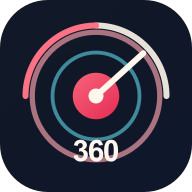
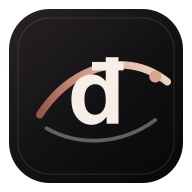
feat: refresh 360dep brand identity

diff --git a/components/brand-logo.tsx b/components/brand-logo.tsx
@@ -9,23 +9,23 @@ type BrandLogoProps = {
 
 export function BrandLogo({ href = "/", variant = "light", className = "", markClassName = "" }: BrandLogoProps) {
   const textClass = variant === "dark" ? "text-white" : "text-slate-950 dark:text-white"
-  const subTextClass = variant === "dark" ? "text-slate-400" : "text-slate-500 dark:text-slate-400"
+  const subTextClass = variant === "dark" ? "text-stone-400" : "text-stone-500 dark:text-stone-400"
 
   return (
-    <Link href={href} className={`group inline-flex items-center gap-3 ${className}`} aria-label="360 độ đẹp">
+    <Link href={href} className={`group inline-flex items-center gap-3 ${className}`} aria-label="360dep.vn">
       <span
-        className={`relative flex h-11 w-11 shrink-0 items-center justify-center overflow-hidden rounded-2xl bg-slate-950 text-white shadow-sm ring-1 ring-slate-900/10 dark:bg-white dark:text-slate-950 ${markClassName}`}
+        className={`relative flex h-11 w-11 shrink-0 items-center justify-center overflow-hidden rounded-xl bg-stone-950 text-stone-50 shadow-sm ring-1 ring-stone-950/15 transition-transform duration-300 group-hover:scale-[1.03] dark:ring-white/10 ${markClassName}`}
       >
-        <span className="absolute inset-1 rounded-[14px] border border-rose-300/45" />
-        <span className="absolute h-7 w-7 rounded-full border border-cyan-300/45" />
-        <span className="absolute h-3 w-3 rounded-full bg-rose-500" />
-        <span className="relative font-display text-[11px] font-black leading-none tracking-tight">360</span>
+        <span className="absolute inset-[5px] rounded-lg border border-stone-50/10" />
+        <span className="absolute left-[7px] top-[24px] h-4 w-8 -rotate-[18deg] rounded-[999px] border-t-2 border-[#c88f7a]" />
+        <span className="absolute right-[8px] top-[10px] h-1.5 w-1.5 rounded-full bg-[#d8a48f]" />
+        <span className="relative -mt-0.5 font-display text-[31px] font-black leading-none tracking-normal text-stone-50">đ</span>
       </span>
       <span className="min-w-0 leading-none">
-        <span className={`block font-display text-2xl font-black tracking-tight ${textClass}`}>
-          360 độ <span className="text-rose-600 dark:text-rose-400">đẹp</span>
+        <span className={`block font-display text-2xl font-black tracking-normal ${textClass}`}>
+          360<span className="text-[#a94f43] dark:text-[#d8a48f]">dep</span><span className="text-stone-500 dark:text-stone-400">.vn</span>
         </span>
-        <span className={`mt-1 hidden text-[10px] font-bold uppercase tracking-[0.22em] sm:block ${subTextClass}`}>
+        <span className={`mt-1 hidden text-[10px] font-bold uppercase tracking-[0.24em] sm:block ${subTextClass}`}>
           Beauty radar
         </span>
       </span>

diff --git a/app/layout.tsx b/app/layout.tsx
@@ -21,13 +21,13 @@ const spaceGrotesk = Space_Grotesk({
 
 export const metadata: Metadata = {
   metadataBase: new URL(process.env.NEXT_PUBLIC_SITE_URL || 'https://360dep.vn'),
-  applicationName: '360 độ đẹp',
+  applicationName: '360dep.vn',
   title: {
-    default: '360 độ đẹp | Catalogue, review mỹ phẩm và beauty radar',
-    template: '%s | 360 độ đẹp',
+    default: '360dep.vn | Catalogue, review mỹ phẩm và beauty radar',
+    template: '%s | 360dep.vn',
   },
   description: 'Catalogue, review mỹ phẩm và kiến thức làm đẹp có kiểm chứng cho người dùng Việt Nam.',
-  keywords: ['360 độ đẹp', '360dep', 'review mỹ phẩm', 'catalogue làm đẹp', 'beauty radar', 'skincare Việt Nam'],
+  keywords: ['360dep.vn', '360dep', 'review mỹ phẩm', 'catalogue làm đẹp', 'beauty radar', 'skincare Việt Nam'],
   alternates: {
     canonical: '/',
   },
@@ -44,29 +44,29 @@ export const metadata: Metadata = {
     shortcut: ['/brand/favicon.ico'],
   },
   appleWebApp: {
-    title: '360 độ đẹp',
+    title: '360dep.vn',
     capable: true,
     statusBarStyle: 'default',
   },
   openGraph: {
     type: 'website',
     locale: 'vi_VN',
-    siteName: '360 độ đẹp',
+    siteName: '360dep.vn',
     url: '/',
-    title: '360 độ đẹp | Catalogue, review mỹ phẩm và beauty radar',
+    title: '360dep.vn | Catalogue, review mỹ phẩm và beauty radar',
     description: 'Catalogue, review mỹ phẩm và kiến thức làm đẹp có kiểm chứng cho người dùng Việt Nam.',
     images: [
       {
         url: '/brand/social-share.jpg',
         width: 1200,
         height: 630,
-        alt: '360 độ đẹp - Beauty Radar',
+        alt: '360dep.vn - Beauty Radar',
       },
     ],
   },
   twitter: {
     card: 'summary_large_image',
-    title: '360 độ đẹp | Catalogue, review mỹ phẩm và beauty radar',
+    title: '360dep.vn | Catalogue, review mỹ phẩm và beauty radar',
     description: 'Catalogue, review mỹ phẩm và kiến thức làm đẹp có kiểm chứng cho người dùng Việt Nam.',
     images: ['/brand/social-share.jpg'],
   },

diff --git a/app/catalogue/page.tsx b/app/catalogue/page.tsx
@@ -8,22 +8,22 @@ import { getCatalogueGuide } from "@/lib/catalogue-guide"
 
 export const metadata = {
   title: "Catalogue nhu cầu làm đẹp",
-  description: "Bản đồ catalogue 360 độ đẹp theo nhu cầu: da mặt, trị mụn, sáng da, chống nắng, tóc, bodycare, makeup, nam giới, clinic và ingredient radar.",
+  description: "Bản đồ catalogue 360dep.vn theo nhu cầu: da mặt, trị mụn, sáng da, chống nắng, tóc, bodycare, makeup, nam giới, clinic và ingredient radar.",
   openGraph: {
-    title: "Catalogue nhu cầu làm đẹp | 360 độ đẹp",
+    title: "Catalogue nhu cầu làm đẹp | 360dep.vn",
     description: "Bản đồ catalogue theo nhu cầu: da mặt, trị mụn, sáng da, chống nắng, tóc, bodycare, makeup, nam giới, clinic và ingredient radar.",
     images: [
       {
         url: "/brand/social-share.jpg",
         width: 1200,
         height: 630,
-        alt: "360 độ đẹp - catalogue nhu cầu làm đẹp",
+        alt: "360dep.vn - catalogue nhu cầu làm đẹp",
       },
     ],
   },
   twitter: {
     card: "summary_large_image",
-    title: "Catalogue nhu cầu làm đẹp | 360 độ đẹp",
+    title: "Catalogue nhu cầu làm đẹp | 360dep.vn",
     description: "Bản đồ catalogue theo nhu cầu làm đẹp, review mỹ phẩm và kiến thức có kiểm chứng.",
     images: ["/brand/social-share.jpg"],
   },
@@ -40,7 +40,7 @@ export default function CataloguePage() {
               Catalogue theo nhu cầu
             </div>
             <h1 className="font-display text-3xl font-black tracking-tight text-slate-900 dark:text-slate-50 md:text-5xl">
-              360 độ đẹp ưu tiên nhu cầu làm đẹp trước, giới tính chỉ là filter.
+              360dep.vn ưu tiên nhu cầu làm đẹp trước, giới tính chỉ là filter.
             </h1>
             <p className="mt-5 max-w-3xl text-base leading-relaxed text-slate-600 dark:text-slate-400 md:text-lg">
               Người dùng thường tìm theo vấn đề thật: trị mụn, kem chống nắng da dầu,

diff --git a/components/layout/footer.tsx b/components/layout/footer.tsx
@@ -47,7 +47,7 @@ export function Footer() {
         <div className="space-y-6">
           <BrandLogo variant="dark" />
           <p className="text-sm text-slate-400 leading-relaxed max-w-xs">
-            360 độ đẹp - nền tảng catalogue, review mỹ phẩm và kiến thức làm đẹp có kiểm chứng cho người dùng Việt Nam.
+            360dep.vn - nền tảng catalogue, review mỹ phẩm và kiến thức làm đẹp có kiểm chứng cho người dùng Việt Nam.
           </p>
           <div className="flex gap-4">
             <Link href="#" className="text-slate-400 hover:text-white transition-colors">
@@ -154,7 +154,7 @@ export function Footer() {
         </div>
       </div>
       <div className="container mx-auto px-4 md:px-6 mt-16 pt-8 border-t border-slate-800 flex flex-col md:flex-row justify-between items-center gap-4 text-xs font-medium uppercase tracking-wider text-slate-500">
-        <div>&copy; {new Date().getFullYear()} 360 độ đẹp. All rights reserved.</div>
+        <div>&copy; {new Date().getFullYear()} 360dep.vn. All rights reserved.</div>
         <div className="flex gap-6">
           <Link href="#" className="hover:text-white transition-colors">Privacy</Link>
           <Link href="#" className="hover:text-white transition-colors">Terms</Link>

diff --git a/app/catalogue/[slug]/page.tsx b/app/catalogue/[slug]/page.tsx
@@ -28,26 +28,26 @@ export async function generateMetadata({ params }: { params: Promise<{ slug: str
   const { slug } = await params
   const section = getCatalogueSection(slug)
 
-  if (!section) return { title: "Catalogue không tồn tại | 360 độ đẹp" }
+  if (!section) return { title: "Catalogue không tồn tại | 360dep.vn" }
 
   return {
     title: `${section.title} | Catalogue làm đẹp`,
     description: section.description,
     openGraph: {
-      title: `${section.title} | 360 độ đẹp`,
+      title: `${section.title} | 360dep.vn`,
       description: section.description,
       images: [
         {
           url: "/brand/social-share.jpg",
           width: 1200,
           height: 630,
-          alt: `${section.title} trên 360 độ đẹp`,
+          alt: `${section.title} trên 360dep.vn`,
         },
       ],
     },
     twitter: {
       card: "summary_large_image",
-      title: `${section.title} | 360 độ đẹp`,
+      title: `${section.title} | 360dep.vn`,
       description: section.description,
       images: ["/brand/social-share.jpg"],
     },

diff --git a/app/koc-tracker/[id]/page.tsx b/app/koc-tracker/[id]/page.tsx
@@ -19,16 +19,16 @@ export async function generateMetadata({ params }: { params: Promise<{ id: strin
   const kol = await getKol(id)
 
   if (!kol) {
-    return { title: 'KOL/KOC không tồn tại | 360 độ đẹp' }
+    return { title: 'KOL/KOC không tồn tại | 360dep.vn' }
   }
 
-  const description = `Theo dõi ${kol.name} trên ${kol.platform}. ${kol.followers} followers. Xem đánh giá sản phẩm làm đẹp từ ${kol.name} tại 360 độ đẹp.`
+  const description = `Theo dõi ${kol.name} trên ${kol.platform}. ${kol.followers} followers. Xem đánh giá sản phẩm làm đẹp từ ${kol.name} tại 360dep.vn.`
 
   return {
-    title: `${kol.name} - KOL/KOC Tracker | 360 độ đẹp`,
+    title: `${kol.name} - KOL/KOC Tracker | 360dep.vn`,
     description,
     openGraph: {
-      title: `${kol.name} - KOL/KOC Tracker | 360 độ đẹp`,
+      title: `${kol.name} - KOL/KOC Tracker | 360dep.vn`,
       description,
     },
   }

diff --git a/app/products/[id]/page.tsx b/app/products/[id]/page.tsx
@@ -23,7 +23,7 @@ export async function generateMetadata({ params }: { params: Promise<{ id: strin
   const product = await getProduct(id)
 
   if (!product) {
-    return { title: 'Sản phẩm không tồn tại | 360 độ đẹp' }
+    return { title: 'Sản phẩm không tồn tại | 360dep.vn' }
   }
 
   const description = product.description?.length > 160
@@ -31,10 +31,10 @@ export async function generateMetadata({ params }: { params: Promise<{ id: strin
     : product.description
 
   return {
-    title: `${product.name} - ${product.brand} | 360 độ đẹp`,
+    title: `${product.name} - ${product.brand} | 360dep.vn`,
     description,
     openGraph: {
-      title: `${product.name} - ${product.brand} | 360 độ đẹp`,
+      title: `${product.name} - ${product.brand} | 360dep.vn`,
       description,
       images: product.image ? [product.image] : [],
     },

diff --git a/app/blog/[id]/page.tsx b/app/blog/[id]/page.tsx
@@ -58,7 +58,7 @@ export async function generateMetadata({ params }: { params: Promise<{ id: strin
     title: `${post.title} | Blog`,
     description: post.excerpt,
     openGraph: {
-      title: `${post.title} | Blog 360 độ đẹp`,
+      title: `${post.title} | Blog 360dep.vn`,
       description: post.excerpt,
       images: post.image
         ? [
@@ -73,7 +73,7 @@ export async function generateMetadata({ params }: { params: Promise<{ id: strin
     },
     twitter: {
       card: "summary_large_image",
-      title: `${post.title} | Blog 360 độ đẹp`,
+      title: `${post.title} | Blog 360dep.vn`,
       description: post.excerpt,
       images: post.image ? [post.image] : [],
     },

diff --git a/app/community/page.tsx b/app/community/page.tsx
@@ -95,7 +95,7 @@ export default function CommunityPage() {
               transition={{ duration: 0.5 }}
             >
               <h1 className="text-3xl md:text-4xl font-display font-bold text-slate-900 dark:text-slate-50 mb-2">
-                Cộng đồng 360 độ đẹp
+                Cộng đồng 360dep.vn
               </h1>
               <p className="text-slate-600 dark:text-slate-400">
                 Nơi chia sẻ kinh nghiệm, hỏi đáp và thảo luận về mọi thứ liên quan đến làm đẹp.

diff --git a/app/admin/page.tsx b/app/admin/page.tsx
@@ -44,7 +44,7 @@ export default function AdminDashboard() {
     <div>
       <div className="mb-8">
         <h1 className="text-3xl font-display font-bold text-slate-900 dark:text-slate-50">Dashboard</h1>
-        <p className="text-slate-500 dark:text-slate-400 mt-1">Tổng quan hệ thống 360 độ đẹp</p>
+        <p className="text-slate-500 dark:text-slate-400 mt-1">Tổng quan hệ thống 360dep.vn</p>
       </div>
 
       <div className="grid grid-cols-1 sm:grid-cols-2 lg:grid-cols-4 gap-6 mb-8">

diff --git a/app/admin/layout.tsx b/app/admin/layout.tsx
@@ -24,7 +24,7 @@ export default function AdminLayout({ children }: { children: React.ReactNode })
           <h2 className="font-display text-xl font-bold text-slate-900 dark:text-slate-50">
             Admin Panel
           </h2>
-          <p className="text-xs text-slate-500 dark:text-slate-400 mt-1">360 độ đẹp Management</p>
+          <p className="text-xs text-slate-500 dark:text-slate-400 mt-1">360dep.vn Management</p>
         </div>
 
         <nav className="flex-1 p-4 space-y-1">
